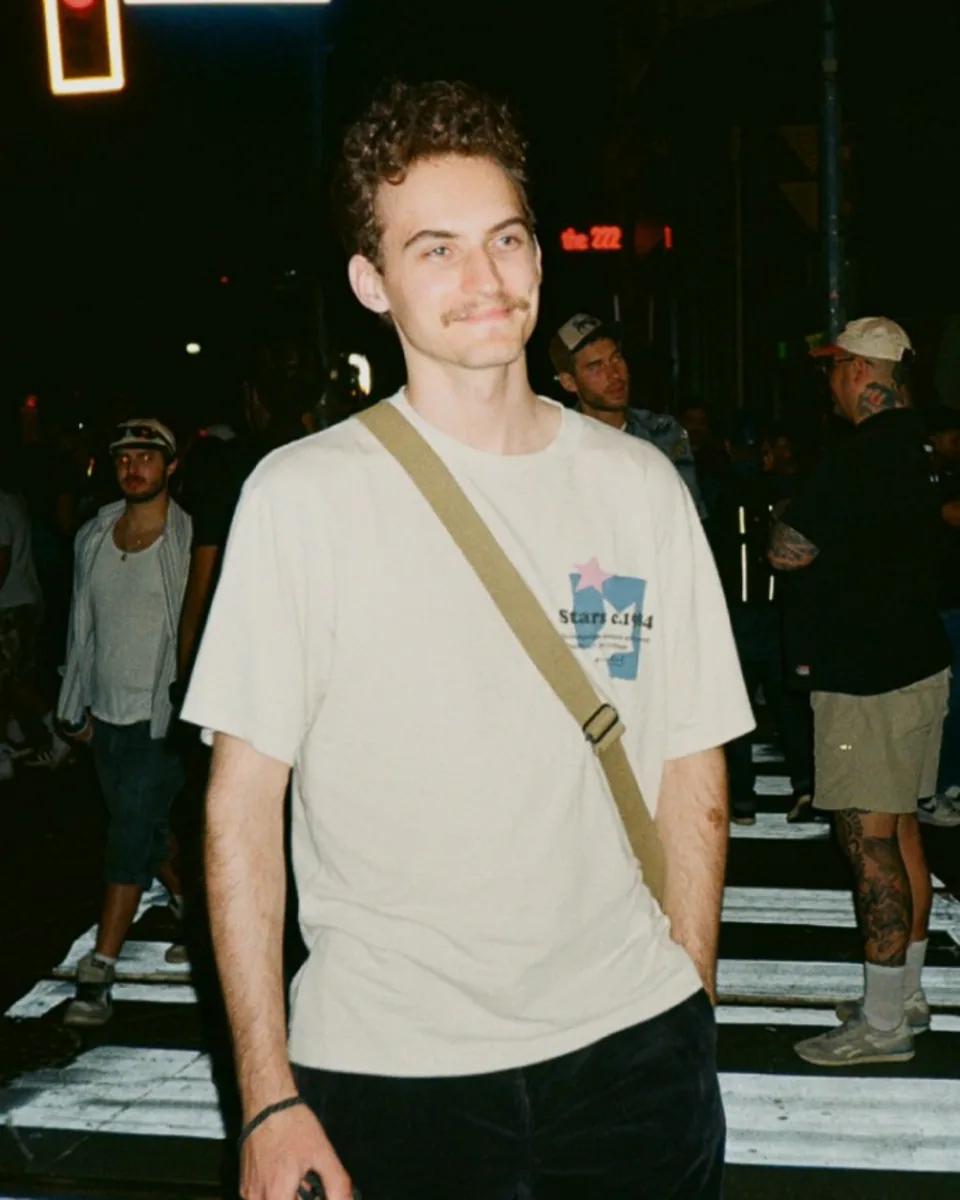
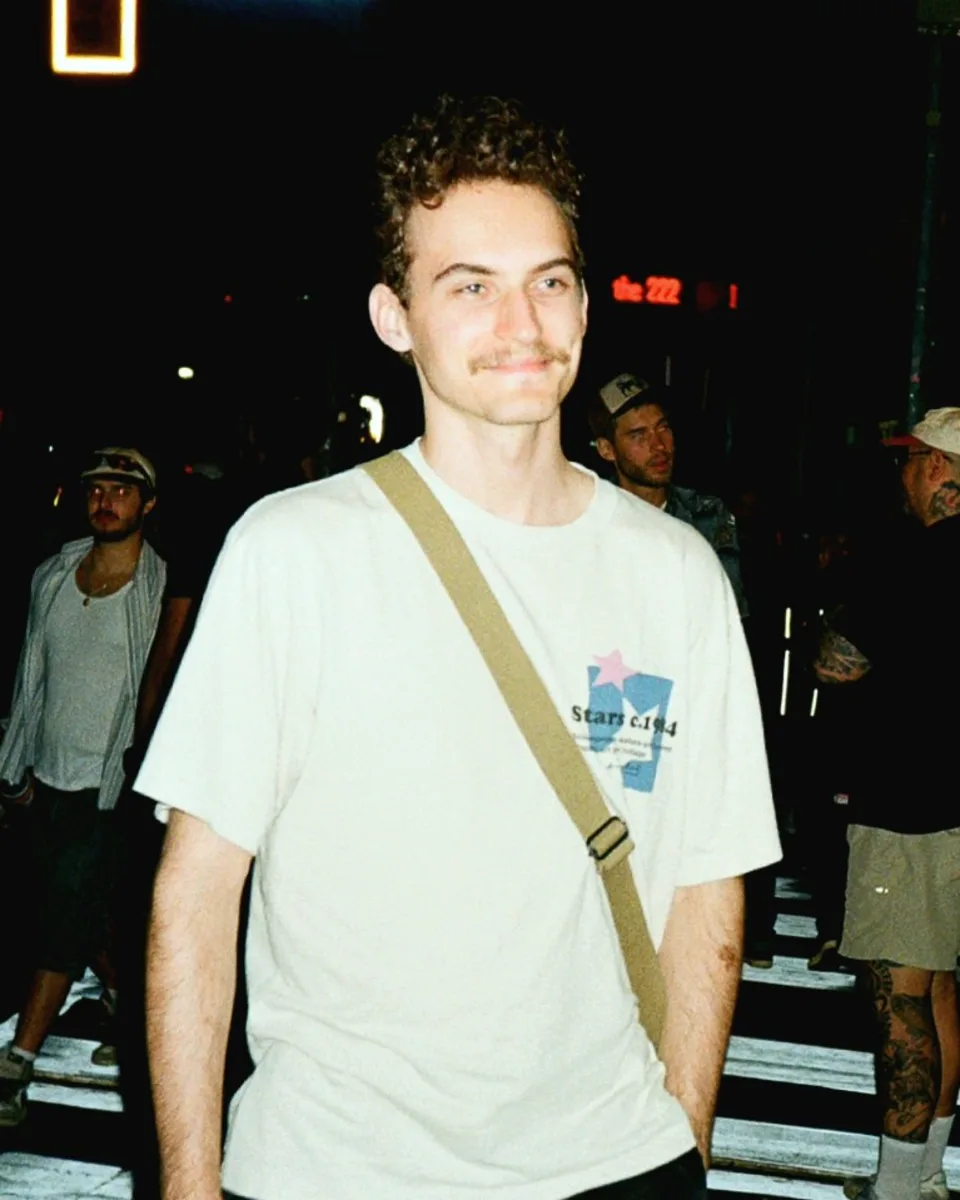
Keep the desktop site title fixed with blend inversion, and refresh the mobile bio portrait.

diff --git a/assets/js/onepage.js b/assets/js/onepage.js
@@ -4172,12 +4172,25 @@ function setupHeaderPillsScrollFade() {
   if (menuPill) menuPill.classList.remove("gallery-bar__brand--scroll-hidden");
   if (!centerTitle) return;
 
+  // Desktop keeps the wordmark fixed with mix-blend-mode; never scroll-hide it.
+  const desktopTitleQuery = "(min-width: 769px)";
+  const isDesktopTitle = () => window.matchMedia?.(desktopTitleQuery)?.matches ?? false;
+
+  if (isDesktopTitle()) {
+    centerTitle.classList.remove("page-center-title--hidden");
+  }
+
   let lastTop = getPageScrollTop();
   let ticking = false;
   const deltaThreshold = 2;
 
   function update() {
     ticking = false;
+    if (isDesktopTitle()) {
+      centerTitle.classList.remove("page-center-title--hidden");
+      return;
+    }
+
     const top = getPageScrollTop();
     const delta = top - lastTop;
     lastTop = top;
@@ -4207,6 +4220,15 @@ function setupHeaderPillsScrollFade() {
   scrollRoot.addEventListener("scroll", onScroll, { passive: true });
   if (scrollRoot !== window) {
     window.addEventListener("scroll", onScroll, { passive: true });
+  }
+
+  const mq = window.matchMedia?.(desktopTitleQuery);
+  if (mq) {
+    const onChange = () => {
+      if (isDesktopTitle()) centerTitle.classList.remove("page-center-title--hidden");
+    };
+    if (typeof mq.addEventListener === "function") mq.addEventListener("change", onChange);
+    else mq.addListener?.(onChange);
   }
 }
 

diff --git a/assets/css/styles.css b/assets/css/styles.css
@@ -341,14 +341,41 @@ body.page-full-gallery a.page-center-title {
   backdrop-filter: none;
   -webkit-backdrop-filter: none;
   box-shadow: none;
-  color: rgba(255, 255, 255, 0.96);
+  color: #ffffff;
   transition: opacity 420ms var(--ease-out), transform 420ms var(--ease-out);
+}
+
+/* Desktop: stay fixed and invert against whatever scrolls underneath. */
+@media (min-width: 769px) {
+  body.page-home .page-center-title,
+  body.page-home a.page-center-title,
+  body.page-full-gallery .page-center-title,
+  body.page-full-gallery a.page-center-title {
+    mix-blend-mode: difference;
+    opacity: 1 !important;
+    pointer-events: auto;
+    transform: translate(-50%, -50%) !important;
+  }
+
+  body.page-home a.page-center-title:hover,
+  body.page-full-gallery a.page-center-title:hover {
+    background: transparent;
+    color: #ffffff;
+    opacity: 1;
+  }
+
+  body.page-home .page-center-title.page-center-title--hidden,
+  body.page-full-gallery .page-center-title.page-center-title--hidden {
+    opacity: 1 !important;
+    transform: translate(-50%, -50%) !important;
+    pointer-events: auto;
+  }
 }
 
 body.page-home a.page-center-title:hover,
 body.page-full-gallery a.page-center-title:hover {
   background: transparent;
-  color: rgba(255, 255, 255, 0.96);
+  color: #ffffff;
   opacity: 0.85;
 }
 
